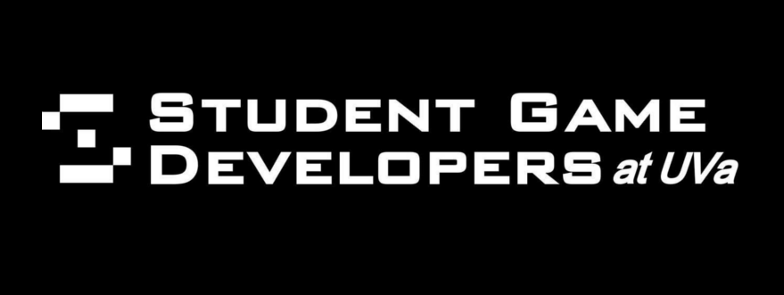
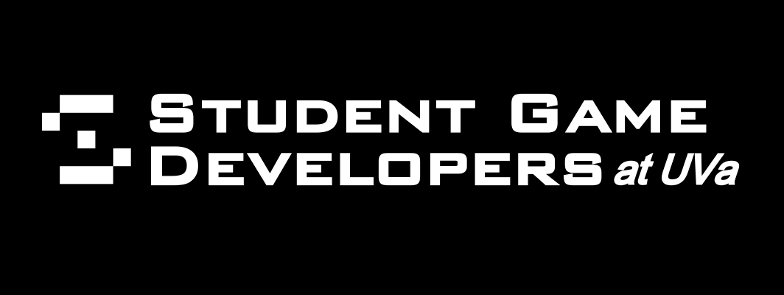
regenerate branding images, resolves #4

diff --git a/uva/branding.md b/uva/branding.md
@@ -3,7 +3,7 @@
 Some general guidelines follow:
 
 * SGD at UVA must always be presented as "SGD at UVA" or "Student Game Developers at the University of Virginia" or some derivative.
-* SGD at UVA may **not** be referred to as UVA SGD for any official purposes. In order to do this, SGD at UVA will have to achieve special status with the university.
+* SGD at UVA may **not** be referred to as "UVA SGD" for any official purposes. In order to do this, SGD at UVA will have to achieve special status with the university.
 * All uses of any SGD at UVA branding must support one of the following logos in a recognizable context.
 * The official font of SGD is Morris Sans Com Heavy; similar fonts include Merriweather Sans, Morris Sans Medium, and FF QType Square.
 
@@ -15,7 +15,7 @@ Some general guidelines follow:
 
 ![white on alpha](./Logo_whiteOnAlpha.png)
 
-![black on white](./Logo_whiteOnBlack.png)
+![white on black](./Logo_whiteOnBlack.png)
 
 ##### Long Logo with Title
 
@@ -23,10 +23,16 @@ Some general guidelines follow:
 
 ![black on white](./Logo_Title_blackOnWhite.png)
 
-![white on alpha](./Logo_Title_whiteOnBlack.png)
+![white on alpha](./Logo_Title_whiteOnAlpha.png)
+
+![white on black](./Logo_Title_whiteOnBlack.png)
 
 ##### Facebook
 
 ![event banner pic](FBEventBanner_whiteOnBlack.png)
+
+##### AtUVA banner
+
+![banner pic](Logo_Title_AtUVA_whiteOnBlack.png)
 
 [Back](./index.md)
